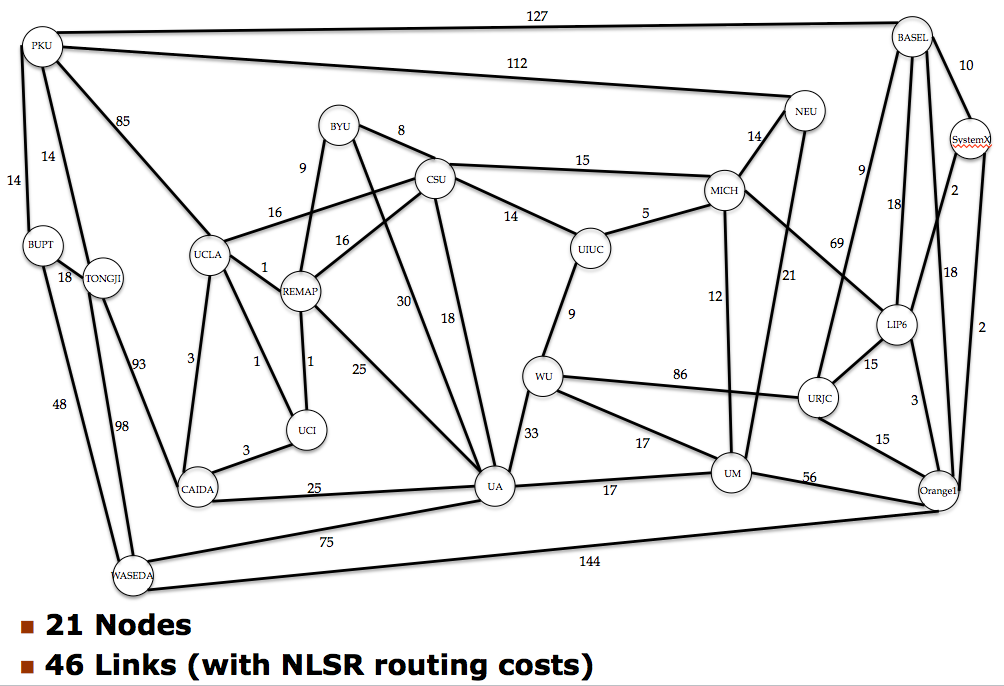
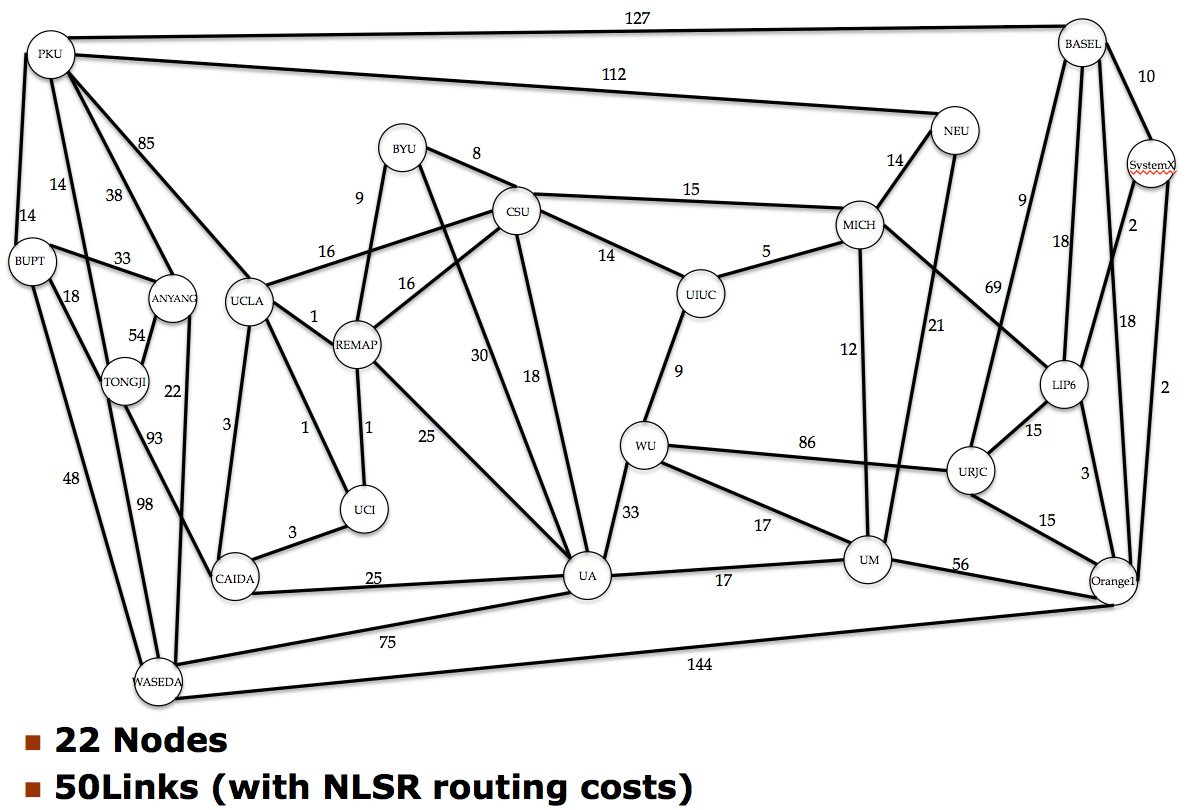
topology and status updates

diff --git a/ndn_prefix/tbs_ndnx.py b/ndn_prefix/tbs_ndnx.py
@@ -457,9 +457,12 @@ def gen_prefix_status_description():
 <font size="3" face="arial">Clock Skew Status: (As compared to UCLA Node's time: Green: < 5 secs off; Yellow: 5 <  > 30 secs; Red: > 30 seconds off) <br><br></font>
 <font size="3" face="arial">Notes on current (August 25, 2014) status: All Testbed nodes are running nfd public release version 0.2.0 <br></font>
 <font size="3" face="arial">Notes on current (October 17, 2014) status: NLSR is now running with validation turned on.<br></font>
-<font size="3" face="arial">Notes on current (November 7, 2014) status: A new node at SystemX (Paris) is up and running.<br></font>
-<font size="3" face="arial">Notes on current (November 7, 2014) status: A new node at BYU (Provo Utah) is up and running.<br></font>
 <font size="3" face="arial">Notes on current (November 18, 2014) status: We continue to experiment with our new status daemons for collecting data for ndnmap.arl.wustl.edu. Banwdith display may be intermittent.<br></font>
+<font size="3" face="arial">Notes on current (December 3, 2014) status: A new node has been added at Anyang University, South Korea.<br></font>
+<font size="3" face="arial">Notes on current (January 9, 2015) status: Node at Memphis is continuing to have problems. Still investigating.<br></font>
+<font size="3" face="arial">Notes on current (January 9, 2015) status: Node at Tongji is having routing problems. Still investigating.<br></font>
+<font size="3" face="arial">Notes on current (January 8-14, 2015) status: Node at Basel will be down for relocation and reconfiguration.<br></font>
+
 <br>
 
 """
